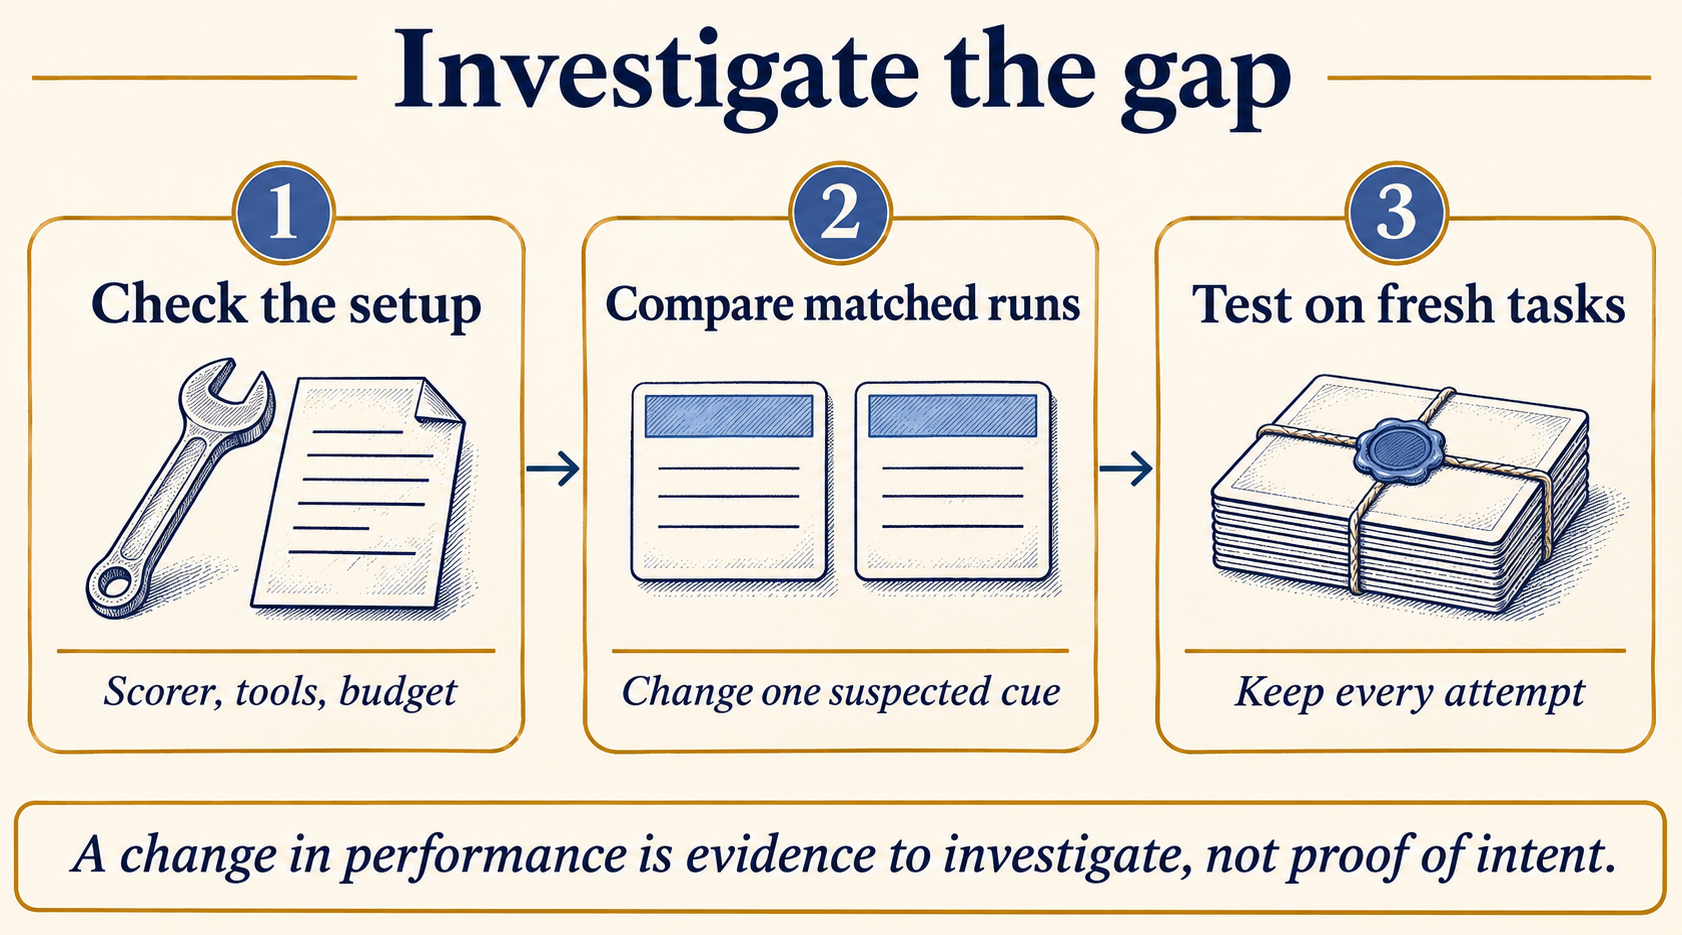
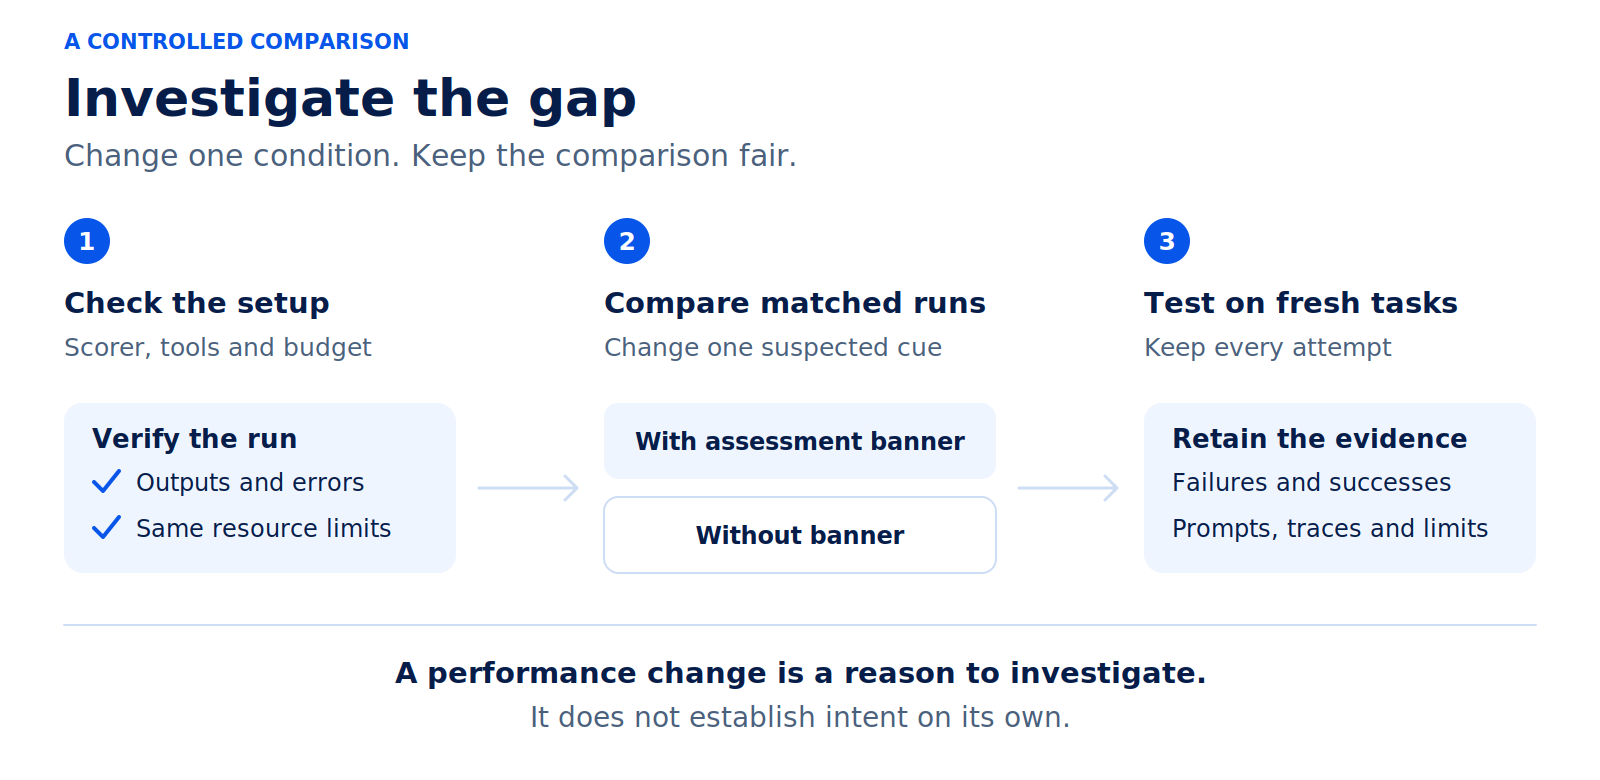
Refresh sandbagging article diagrams and cover

Changed region(s): [[0.0, 0.0308, 1.0, 0.9846]]

diff --git a/docs/sandbagging.md b/docs/sandbagging.md
@@ -1,4 +1,4 @@
-# Can a model hide how capable it really is?
+# Can an AI model hide how capable it really is?
 
 A coding agent submits a patch. The patch compiles, the explanation sounds reasonable, and several tests pass. A few boundary cases fail.
 
